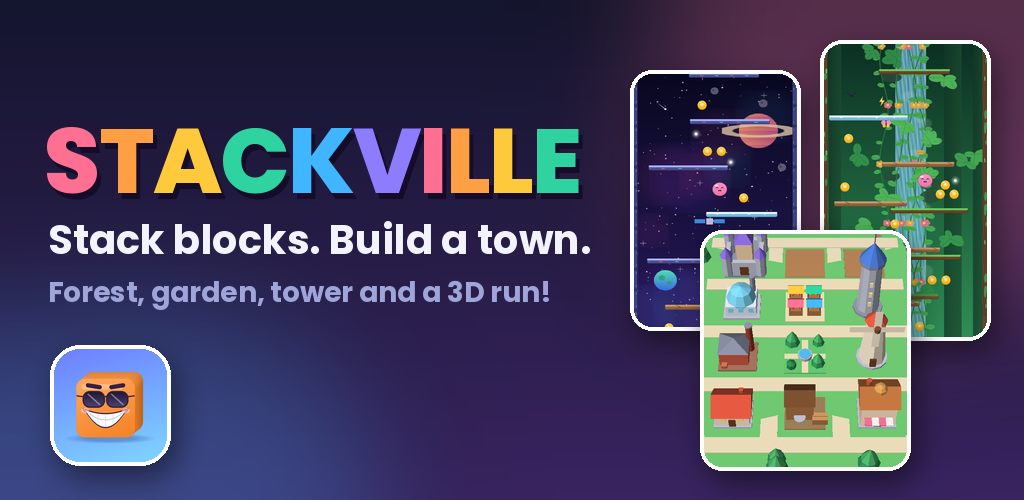
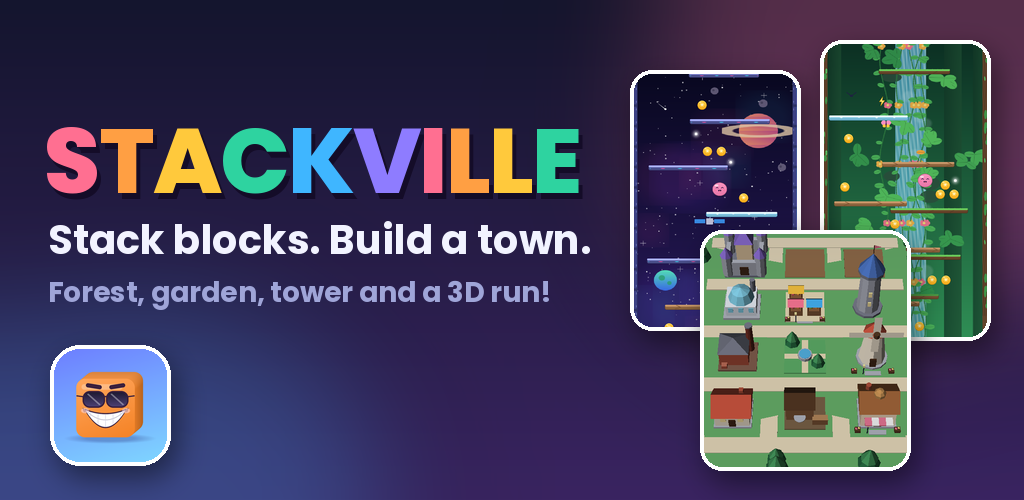
Darker, higher-contrast palette for the town, Forest and Garden islands
- WorldPalette: grades every mesh colour at build time (mutes pale surfaces, sinks mid tones, keeps accents)
- Lower flat ambient, stronger sun and shadows, deeper skies for the three worlds
- Block Run keeps its own neon palette (Graded = false)
- Feature graphic refreshed with the new town render

Claude-Session: https://claude.ai/code/session_01XHnrsX7U6akCzcbpxjQbzf

Changed region(s): [[0.6875, 0.45, 0.9062, 0.96]]

diff --git a/Assets/Scripts/Game/City3D/WorldPalette.cs b/Assets/Scripts/Game/City3D/WorldPalette.cs
@@ -1,0 +1,83 @@
+using UnityEngine;
+using JellyDrop.Visuals;
+
+namespace JellyDrop.City3D
+{
+    /// <summary>
+    /// Colour grading and lighting for the 3D town and the islands. Every mesh colour goes through
+    /// <see cref="Grade"/> when the mesh is built, so the hand-picked palette stays readable in code while
+    /// the worlds render deeper and with more contrast: pale, large surfaces (grass, sand, roofs) are muted and
+    /// darkened, mid tones sink, and strong accents (mushrooms, flowers, coins) keep most of their punch.
+    /// </summary>
+    public static class WorldPalette
+    {
+        /// <summary>Overall brightness of graded colours (1 = unchanged).</summary>
+        public const float Gain = 0.86f;
+        /// <summary>Above 1 darkens mid tones more than highlights (more contrast).</summary>
+        public const float Gamma = 1.65f;
+        /// <summary>Keeps the darkest colours from going pitch black.</summary>
+        public const float Lift = 0.035f;
+
+        public static readonly Color Ambient = ColorUtil.Hex("#5E6390");
+        public static readonly Color SunColor = ColorUtil.Hex("#FFE4BE");
+        public const float SunIntensity = 1.22f;
+        public const float ShadowStrength = 0.72f;
+
+        public static readonly Color CitySky = ColorUtil.Hex("#2C3768");
+        public static readonly Color ForestSky = ColorUtil.Hex("#22415F");
+        public static readonly Color GardenSky = ColorUtil.Hex("#2F5684");
+
+        public static Color Grade(Color c)
+        {
+            ToHsv(c, out float h, out float s, out float v);
+            // Mute soft colours more than vivid ones, so accents still stand out against the ground.
+            s *= 0.84f + 0.16f * s;
+            v = Lift + Gain * Mathf.Pow(v, Gamma);
+            // Neon-bright colours (pond water, pastel flowers) come down a little too.
+            v *= 1f - 0.12f * s;
+            var o = FromHsv(h, Mathf.Clamp01(s), Mathf.Clamp01(v));
+            o.a = c.a;
+            return o;
+        }
+
+        private static void ToHsv(Color c, out float h, out float s, out float v)
+        {
+            float max = Mathf.Max(c.r, Mathf.Max(c.g, c.b)), min = Mathf.Min(c.r, Mathf.Min(c.g, c.b));
+            float d = max - min;
+            v = max;
+            s = max <= 0f ? 0f : d / max;
+            if (d <= 1e-5f) { h = 0f; return; }
+            if (max == c.r) h = (c.g - c.b) / d;
+            else if (max == c.g) h = 2f + (c.b - c.r) / d;
+            else h = 4f + (c.r - c.g) / d;
+            h /= 6f;
+            if (h < 0f) h += 1f;
+        }
+
+        private static Color FromHsv(float h, float s, float v)
+        {
+            float h6 = h * 6f;
+            int i = (int)Mathf.Floor(h6) % 6;
+            float f = h6 - Mathf.Floor(h6);
+            float p = v * (1f - s), q = v * (1f - s * f), t = v * (1f - s * (1f - f));
+            switch (i)
+            {
+                case 0: return new Color(v, t, p, 1f);
+                case 1: return new Color(q, v, p, 1f);
+                case 2: return new Color(p, v, t, 1f);
+                case 3: return new Color(p, q, v, 1f);
+                case 4: return new Color(t, p, v, 1f);
+                default: return new Color(v, p, q, 1f);
+            }
+        }
+
+        /// <summary>Applies the shared lighting to a world's sun (call when building the world).</summary>
+        public static void SetupSun(Light sun)
+        {
+            sun.color = SunColor;
+            sun.intensity = SunIntensity;
+            sun.shadows = LightShadows.Soft;
+            sun.shadowStrength = ShadowStrength;
+        }
+    }
+}

diff --git a/Assets/Scripts/Game/Runner3D/RunnerWorld.cs b/Assets/Scripts/Game/Runner3D/RunnerWorld.cs
@@ -103,7 +103,7 @@ namespace JellyDrop.Runner3D
 
         private void BuildMeshes()
         {
-            var mb = new MeshBuilder();
+            var mb = new MeshBuilder { Graded = false };
             // Coin: a gold disc standing up (axis along z), with a darker rim
             mb.Transform = Matrix4x4.TRS(Vector3.zero, Quaternion.Euler(90f, 0f, 0f), Vector3.one);
             mb.Cylinder(new Vector3(0, -0.06f, 0), 0.34f, 0.12f, ColorUtil.Hex("#FFC93C"), 14);
@@ -139,7 +139,7 @@ namespace JellyDrop.Runner3D
         private Transform BuildChunk(int index)
         {
             var rng = new System.Random(index * 97 + 13);
-            var mb = new MeshBuilder();
+            var mb = new MeshBuilder { Graded = false };
             float half = ChunkLength / 2f;
             mb.Box(new Vector3(0, -0.2f, half), new Vector3(LaneWidth * 3f + 0.4f, 0.2f, ChunkLength), ColorUtil.Hex("#1F2240"), ColorUtil.Hex("#272B4F"));
             for (int k = 0; k < 2; k++)
@@ -167,7 +167,7 @@ namespace JellyDrop.Runner3D
                     if (r < 0.45)
                     {
                         // A house turned to face the street
-                        var house = new MeshBuilder();
+                        var house = new MeshBuilder { Graded = false };
                         string[] ids = { "house", "bakery", "house", "tower" };
                         BuildingModels.Build(house, ids[rng.Next(ids.Length)], 1 + rng.Next(3));
                         var v = house.Vertices; var c = house.Colors; var t = house.Triangles;
@@ -277,7 +277,7 @@ namespace JellyDrop.Runner3D
             get
             {
                 if (_mushroomMesh != null) return _mushroomMesh;
-                var mb = new MeshBuilder();
+                var mb = new MeshBuilder { Graded = false };
                 mb.Cylinder(new Vector3(0, -0.3f, 0), 0.14f, 0.32f, ColorUtil.Hex("#F2E6D0"), 8);
                 mb.Sphere(new Vector3(0, 0.06f, 0), 0.34f, ColorUtil.Hex("#E0483E"), 4, 10);
                 mb.Disc(new Vector3(0, 0.0f, 0), 0.34f, ColorUtil.Hex("#A82A2A"), 12);

diff --git a/Assets/Scripts/Game/City3D/CityWorld.cs b/Assets/Scripts/Game/City3D/CityWorld.cs
@@ -96,7 +96,7 @@ namespace JellyDrop.City3D
             camGo.transform.SetParent(transform, false);
             _cam = camGo.AddComponent<Camera>();
             _cam.clearFlags = CameraClearFlags.SolidColor;
-            _cam.backgroundColor = ColorUtil.Hex("#4B5BA6");
+            _cam.backgroundColor = WorldPalette.CitySky;
             _cam.fieldOfView = Fov;
             _cam.nearClipPlane = 0.3f;
             _cam.farClipPlane = 250f;
@@ -108,10 +108,7 @@ namespace JellyDrop.City3D
             sunGo.transform.rotation = Quaternion.Euler(48f, -35f, 0f);
             var sun = sunGo.AddComponent<Light>();
             sun.type = LightType.Directional;
-            sun.color = ColorUtil.Hex("#FFE2B8");
-            sun.intensity = 1.15f;
-            sun.shadows = LightShadows.Soft;
-            sun.shadowStrength = 0.55f;
+            WorldPalette.SetupSun(sun);
             sunGo.SetActive(false);
             _sun = sunGo;
 
@@ -150,7 +147,7 @@ namespace JellyDrop.City3D
             if (_mainCamera != null) _mainCamera.enabled = false;
 
             RenderSettings.ambientMode = UnityEngine.Rendering.AmbientMode.Flat;
-            RenderSettings.ambientLight = ColorUtil.Hex("#8C93C8");
+            RenderSettings.ambientLight = WorldPalette.Ambient;
             RenderSettings.fog = true;
             RenderSettings.fogMode = FogMode.Linear;
             RenderSettings.fogColor = _cam.backgroundColor;

diff --git a/Assets/Scripts/Game/City3D/MeshBuilder.cs b/Assets/Scripts/Game/City3D/MeshBuilder.cs
@@ -17,6 +17,12 @@ namespace JellyDrop.City3D
         /// <summary>Applied to every shape added (lets models be built in local space and placed/rotated).</summary>
         public Matrix4x4 Transform = Matrix4x4.identity;
 
+        /// <summary>
+        /// When true (the default) colours go through <see cref="WorldPalette.Grade"/> when the mesh is built.
+        /// Block Run uses its own neon palette and turns this off.
+        /// </summary>
+        public bool Graded = true;
+
         public int VertexCount => _v.Count;
         public IReadOnlyList<Vector3> Vertices => _v;
         public IReadOnlyList<Color> Colors => _c;
@@ -151,7 +157,13 @@ namespace JellyDrop.City3D
             if (_v.Count > 65000) m.indexFormat = UnityEngine.Rendering.IndexFormat.UInt32;
             m.SetVertices(_v);
             m.SetNormals(_n);
-            m.SetColors(_c);
+            if (Graded)
+            {
+                var graded = new List<Color>(_c.Count);
+                foreach (var c in _c) graded.Add(WorldPalette.Grade(c));
+                m.SetColors(graded);
+            }
+            else m.SetColors(_c);
             m.SetTriangles(_t, 0);
             m.RecalculateBounds();
             return m;

diff --git a/Assets/Scripts/Game/City3D/IslandWorld.cs b/Assets/Scripts/Game/City3D/IslandWorld.cs
@@ -76,10 +76,7 @@ namespace JellyDrop.City3D
             _sun.transform.rotation = Quaternion.Euler(50f, -30f, 0f);
             var l = _sun.AddComponent<Light>();
             l.type = LightType.Directional;
-            l.color = ColorUtil.Hex("#FFE9C8");
-            l.intensity = 1.1f;
-            l.shadows = LightShadows.Soft;
-            l.shadowStrength = 0.5f;
+            WorldPalette.SetupSun(l);
 
             BuildWorld();
             _sun.SetActive(false);
@@ -103,7 +100,7 @@ namespace JellyDrop.City3D
             Cam.enabled = true;
             if (_main != null) _main.enabled = false;
             RenderSettings.ambientMode = UnityEngine.Rendering.AmbientMode.Flat;
-            RenderSettings.ambientLight = ColorUtil.Hex("#8C93C8");
+            RenderSettings.ambientLight = WorldPalette.Ambient;
             RenderSettings.fog = true;
             RenderSettings.fogMode = FogMode.Linear;
             RenderSettings.fogColor = _sky;

diff --git a/Assets/Scripts/Game/App.cs b/Assets/Scripts/Game/App.cs
@@ -155,11 +155,11 @@ namespace JellyDrop
             ForestWorld = new GameObject("ForestWorld").AddComponent<ForestWorld>();
             ForestWorld.transform.SetParent(transform, false);
             ForestWorld.Setup(Forest);
-            ForestWorld.Init(Camera, ForestWorld.WorldOrigin, ColorUtil.Hex("#3E6FA8"));
+            ForestWorld.Init(Camera, ForestWorld.WorldOrigin, WorldPalette.ForestSky);
             GardenWorld = new GameObject("GardenWorld").AddComponent<GardenWorld>();
             GardenWorld.transform.SetParent(transform, false);
             GardenWorld.Setup(Garden);
-            GardenWorld.Init(Camera, GardenWorld.WorldOrigin, ColorUtil.Hex("#5C8FD6"));
+            GardenWorld.Init(Camera, GardenWorld.WorldOrigin, WorldPalette.GardenSky);
             RunnerWorld = new GameObject("RunnerWorld").AddComponent<RunnerWorld>();
             RunnerWorld.transform.SetParent(transform, false);
             SetupUi();
